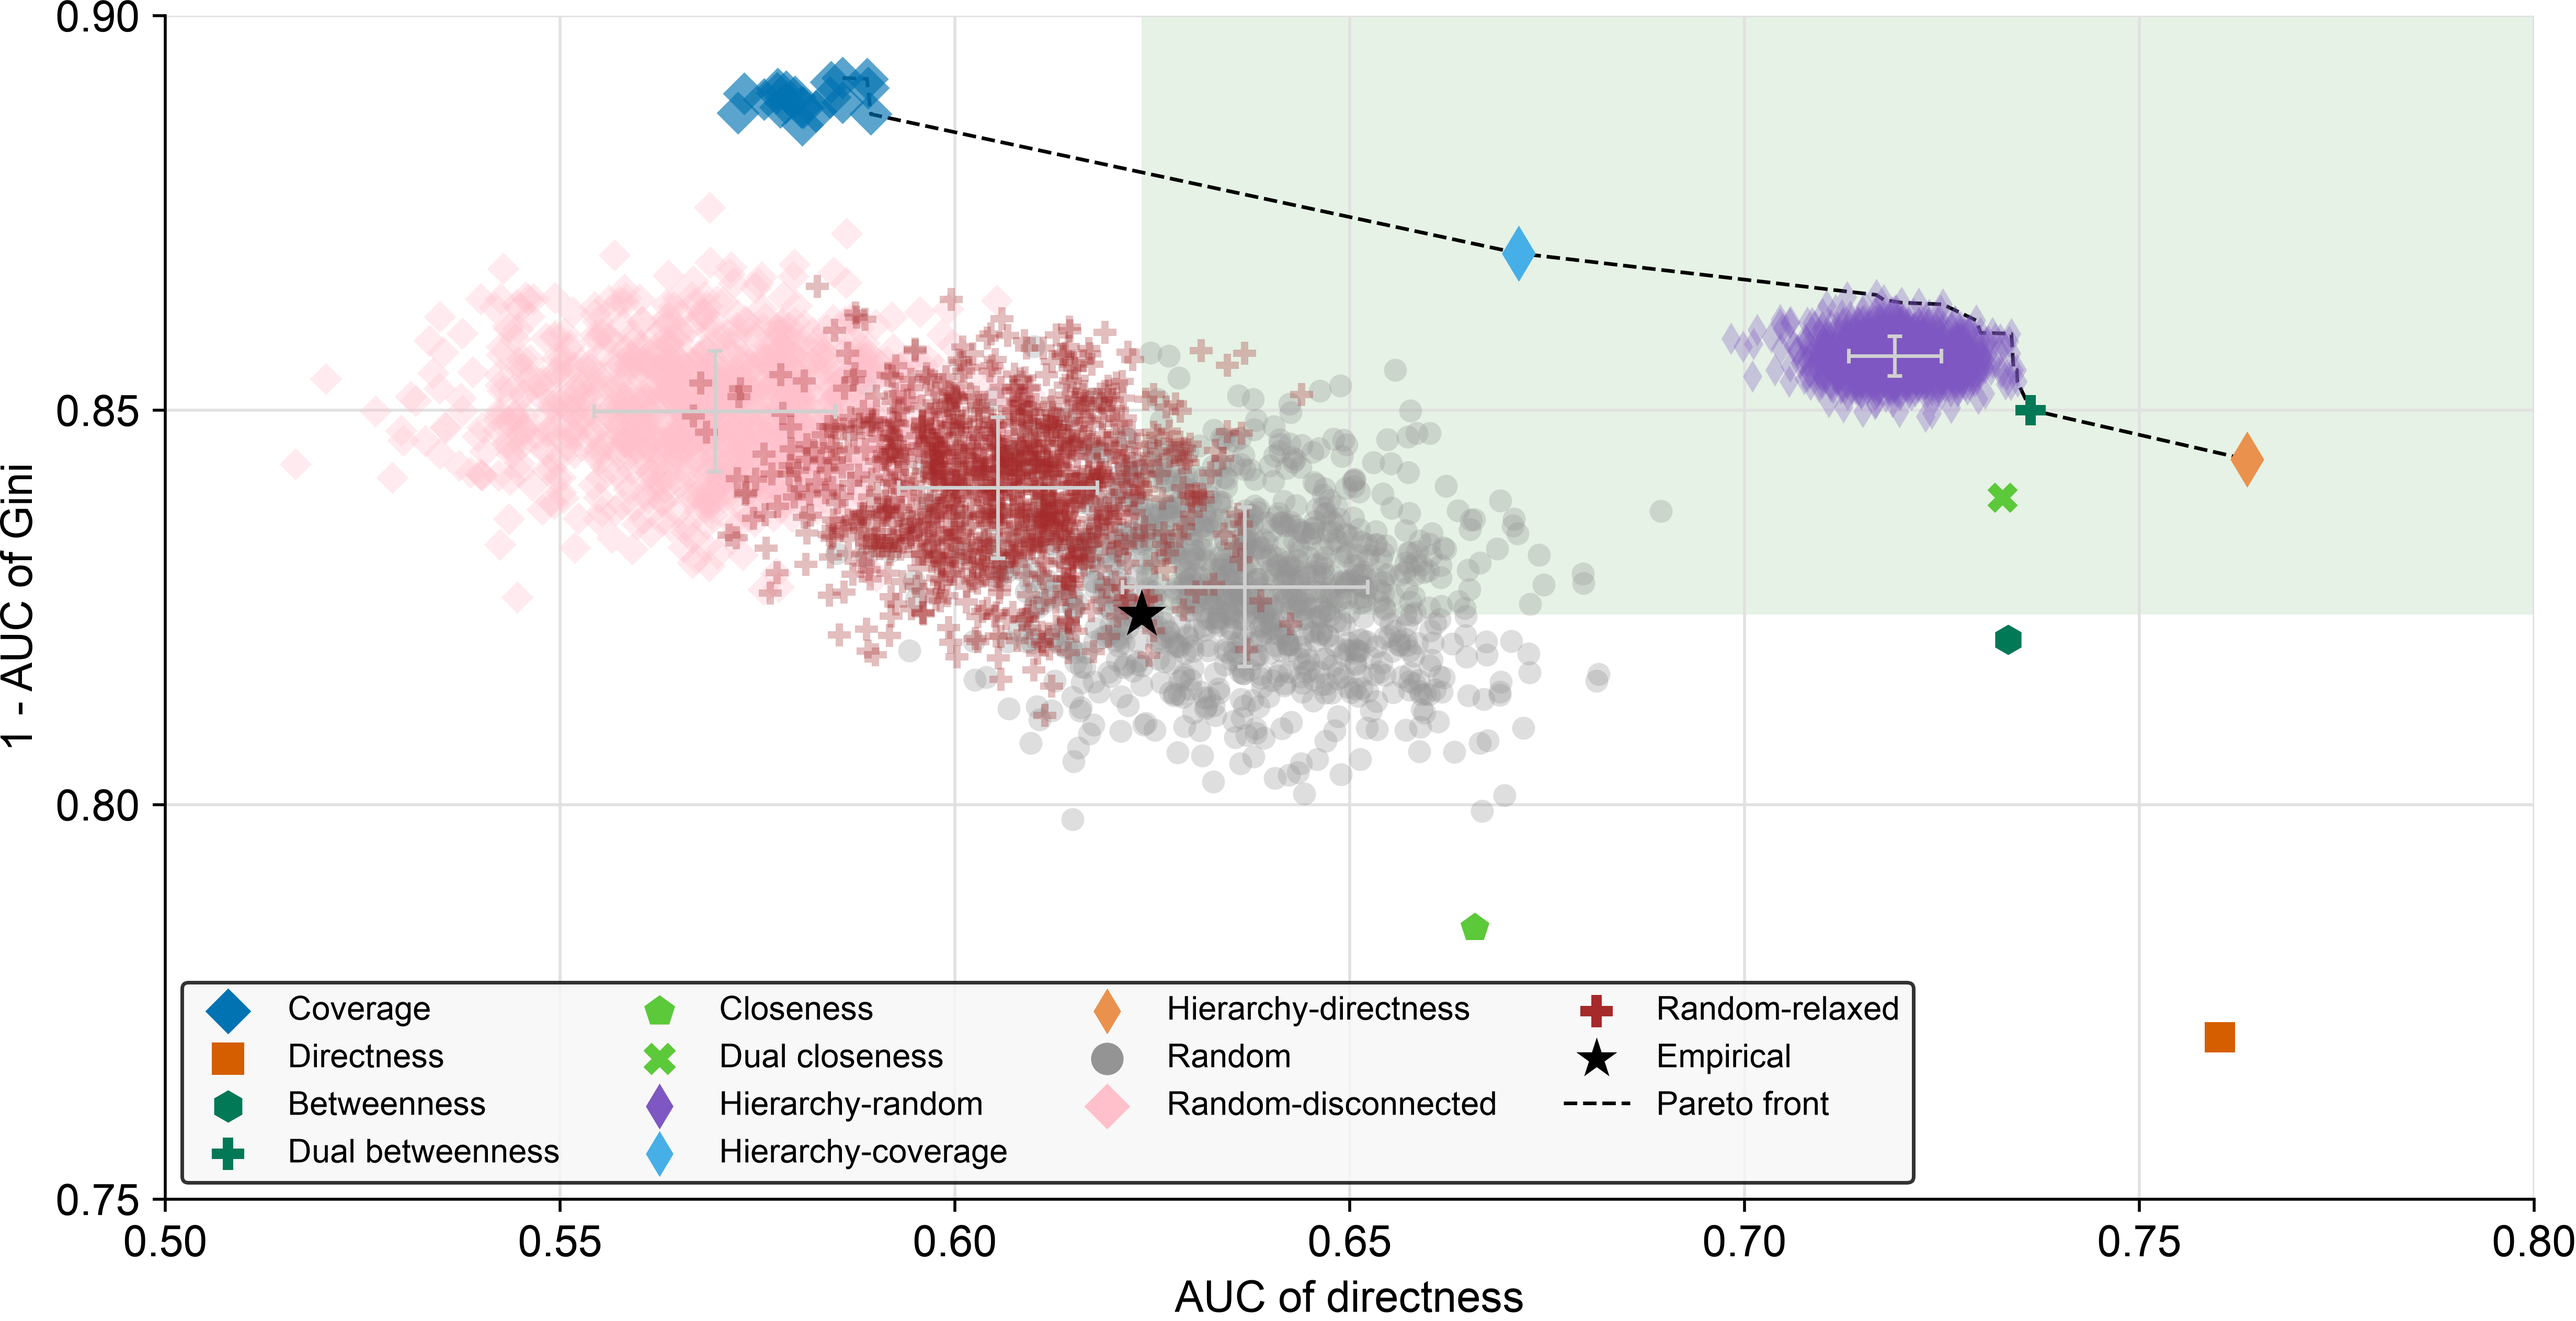
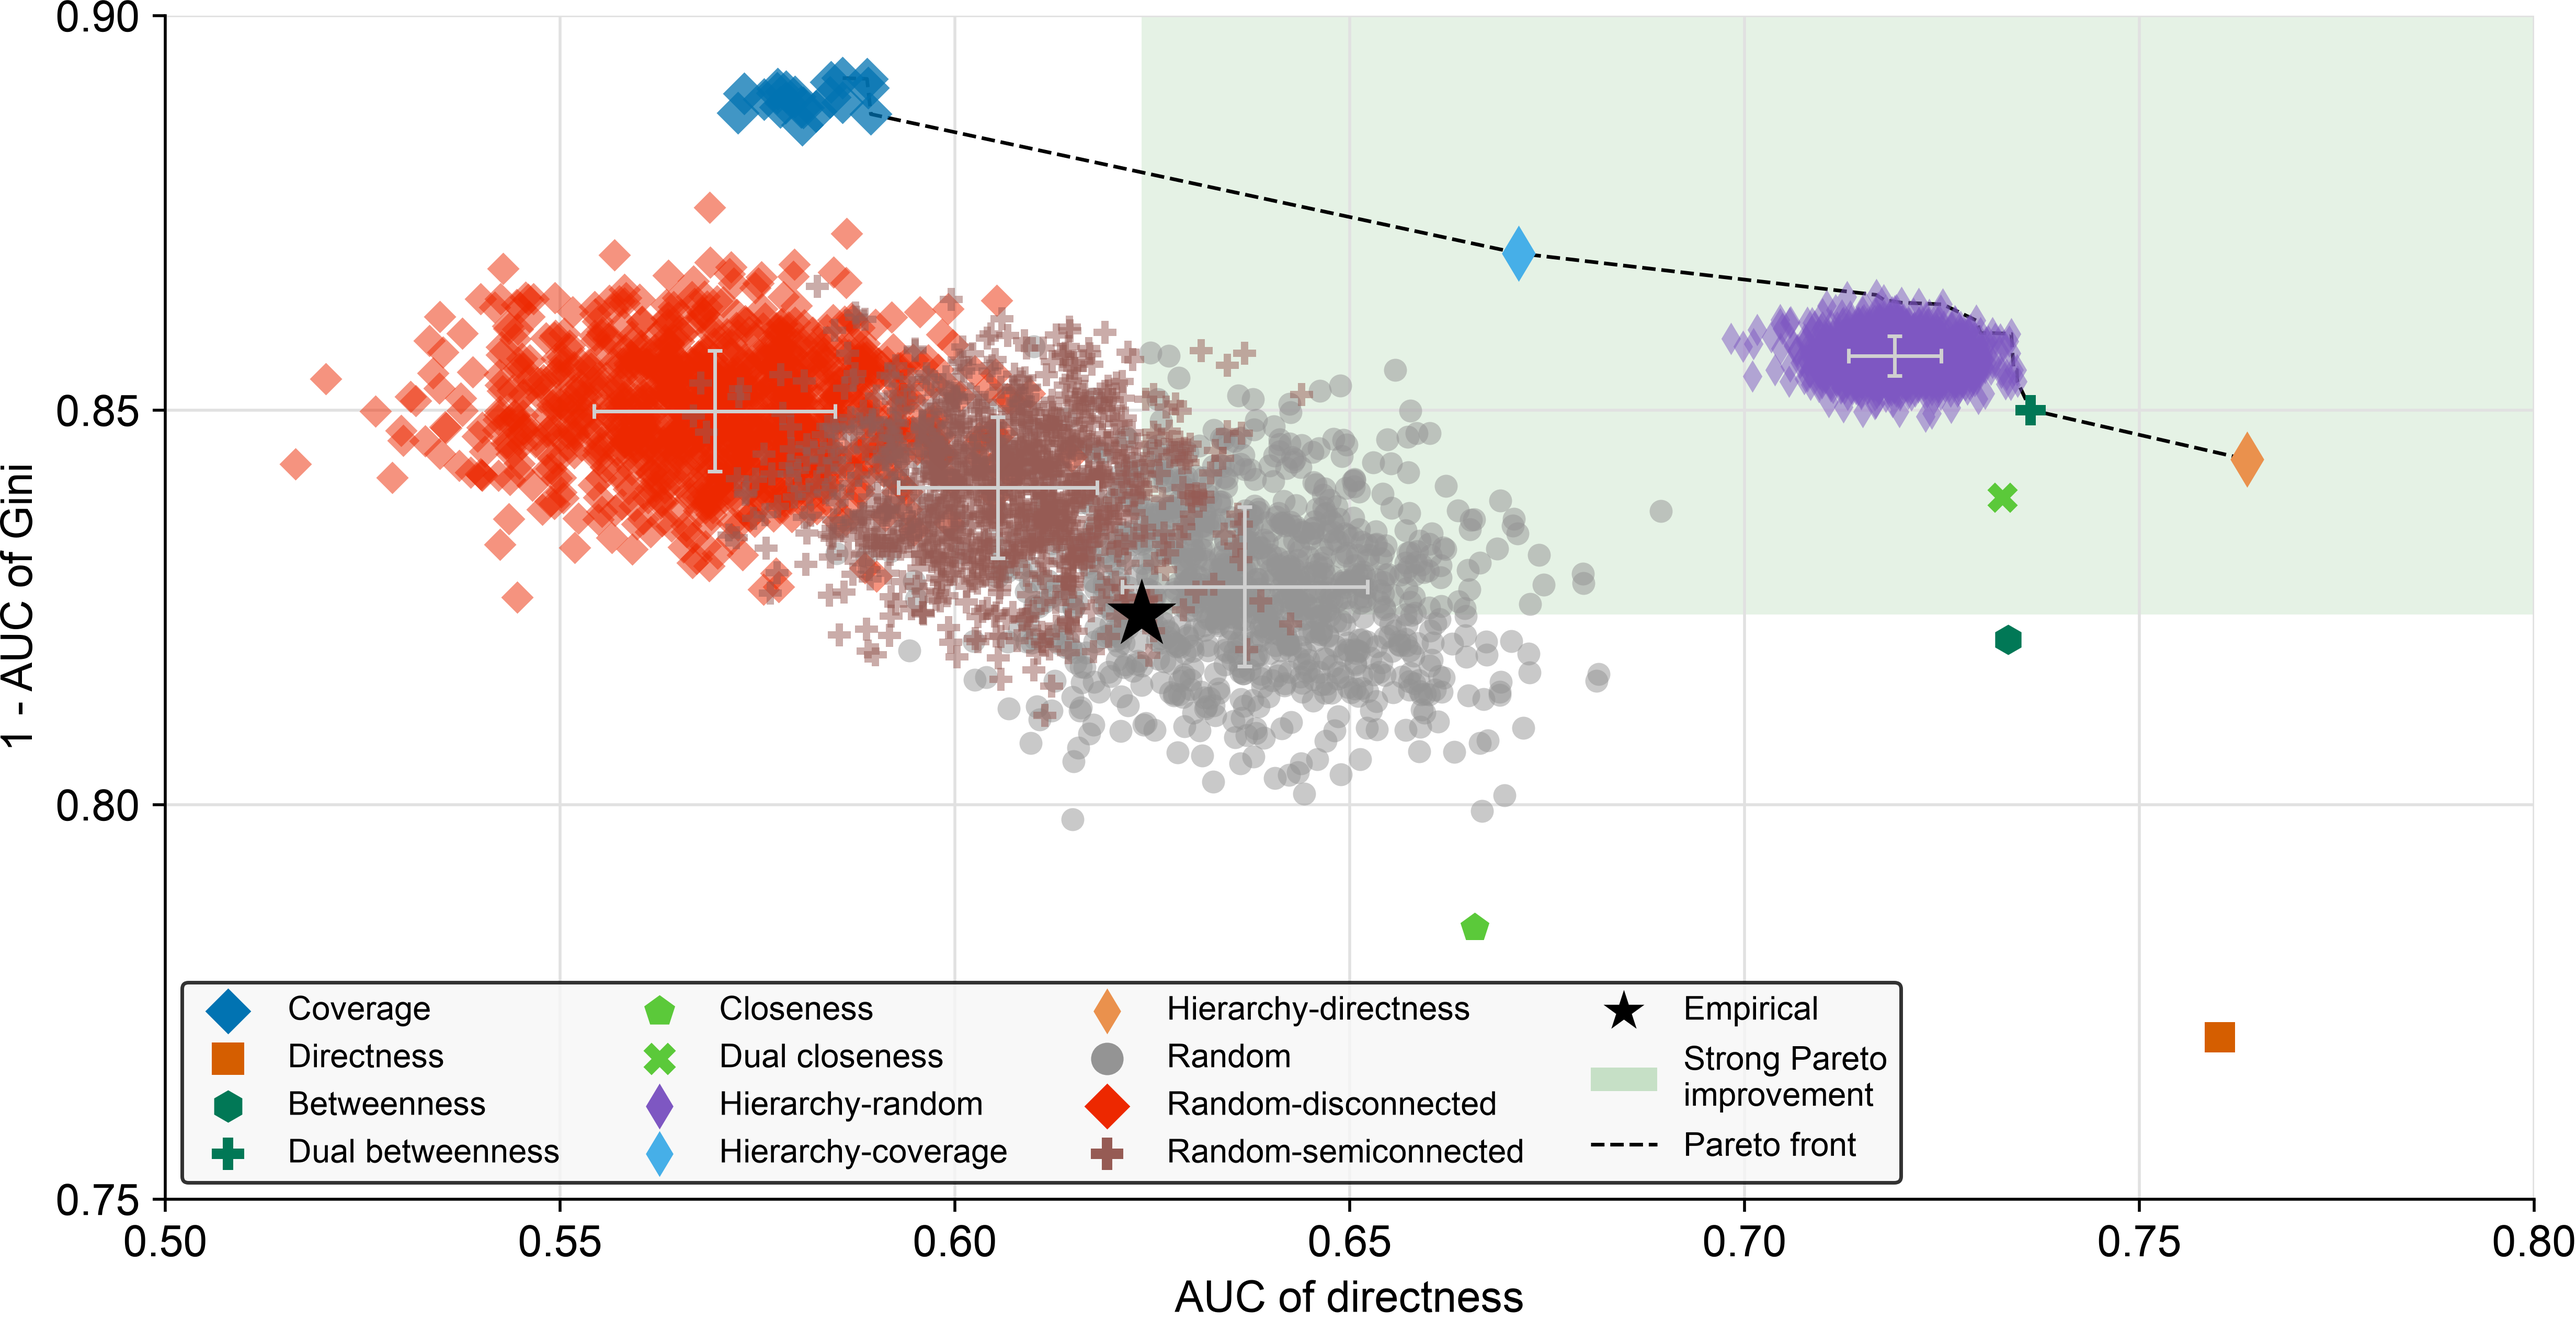
Rename, small fix supplementary

diff --git a/scripts/R_plot_AUC_2021_gini_supplementary.py b/scripts/R_plot_AUC_2021_gini_supplementary.py
@@ -37,7 +37,7 @@ PARAMS_DICT = {
         "Hierarchy-directness",
         "Random",
         "Random-disconnected",
-        "Random-relaxed",
+        "Random-semiconnected",
         "Empirical",
     ],
     "color": [
@@ -51,13 +51,14 @@ PARAMS_DICT = {
         "#46afe8",
         "#ea914d",
         "#949494",
-        "pink",
-        "brown",
+        "#ED2800",
+        "#965B54",
         "black",
     ],
     "marker": ["D", "s", "h", "P", "p", "X", "d", "d", "d", "o", "D", "P", "*"],
-    "alpha": [0.65, 1, 1, 1, 1, 1, 0.3, 1, 1, 0.3, 0.3, 0.3, 1],
-    "s": [70, 70, 70, 70, 70, 70, 40, 120, 120, 40, 40, 40, 200],
+    "alpha": [0.75, 1, 1, 1, 1, 1, 0.5, 1, 1, 0.5, 0.5, 0.5, 1],
+    "zorder": [6, 6, 6, 6, 6, 6, 5, 6, 6, 2, 3, 4, 7],
+    "s": [70, 70, 70, 70, 70, 70, 40, 120, 120, 40, 40, 40, 400],
     "figsize": [11.69, 8.27],
     "errorbar_random": {"elinewidth": 1, "color": "#D0D0D0", "markersize": 6},
     "errorbar_hierarchy": {"elinewidth": 1, "color": "#D0D0D0"},
@@ -98,7 +99,7 @@ def main():
         )
         savename_plot = (
             FOLDERPLOT_SUPP
-            + f"AUC_gini_2021_2026_bs_{BUFFER_SIZE}_{'_'.join(auc_label.split(' '))}.png"
+            + f"AUC_gini_2021_bs_{BUFFER_SIZE}_{'_'.join(auc_label.split(' '))}.png"
         )
         folder_data = FOLDEROOT + "2021/"
         savename = folder_data + f"/auc_table_growth_bs_{BUFFER_SIZE}_alt"
@@ -108,22 +109,10 @@ def main():
         df_growth = df_growth.drop([2027])
         for ids, met in enumerate(PARAMS_DICT["order"]):
             mask_met = df_growth["Metric optimized"] == met
-            if met in [
-                "random",
-                "random_disconnected",
-                "random_relaxed",
-                "road_hierarchy",
-            ]:
-                zorder = 2
-            elif met == "real":
-                zorder = 4
-            else:
-                zorder = 3
             ax.scatter(
                 df_growth[mask_met][auc],
                 df_growth[mask_met]["AUC of Gini"],
                 linewidths=0,
-                zorder=zorder,
                 **{
                     key: val[ids]
                     for key, val in PARAMS_DICT.items()
@@ -151,7 +140,7 @@ def main():
                     fmt="None",
                     capsize=2,
                     **{key: val for key, val in PARAMS_DICT["errorbar_random"].items()},
-                    zorder=3,
+                    zorder=6,
                 )
             elif met == "road_hierarchy":
                 xx_mean = df_growth[mask_met][auc].mean()
@@ -169,7 +158,7 @@ def main():
                         key: val
                         for key, val in PARAMS_DICT["errorbar_hierarchy"].items()
                     },
-                    zorder=3,
+                    zorder=6,
                 )
             elif met == "real_random":
                 # Add Strong Pareto Improvment patch
@@ -184,6 +173,7 @@ def main():
                     color="green",
                     alpha=0.1,
                     zorder=0,
+                    label="Strong Pareto\nimprovement",
                 )
                 ax.add_patch(rect)
         ax.set_xlabel(auc_label)
@@ -225,9 +215,10 @@ def main():
         )
         for handle in lgnd.legend_handles:
             handle._alpha = 1
-        for handle in lgnd.legend_handles[:-2]:
+        lgnd.legend_handles[-2]._alpha = 0.2
+        for handle in lgnd.legend_handles[:-3]:
             handle._sizes = [80]
-        lgnd.legend_handles[-2]._sizes = [140]
+        lgnd.legend_handles[-3]._sizes = [140]
         fig.savefig(savename_plot, bbox_inches="tight", pad_inches=0)
 
 

diff --git a/scripts/N_plot_bikenet_small_multiples_scratch_main.py b/scripts/N_plot_bikenet_small_multiples_scratch_main.py
@@ -104,6 +104,7 @@ def main():
                     capstyle="round",
                     joinstyle="round",
                 )
+                ax.set_xlabel("")
             else:
                 H = G.edge_subgraph(order_growth[: idx_stage_bef + 2] + init_edge)
                 temp_gdf_edges = mp.nx_to_gdf(H, points=False, lines=True)
@@ -125,6 +126,8 @@ def main():
                     capstyle="round",
                     joinstyle="round",
                 )
+                ax.set_xlabel("")
+                ax.set_ylabel("")
             idx_stage_bef = idx_stage
             ax.set_xlim([bb[0], bb[2]])
             ax.set_ylim([bb[1], bb[3]])
@@ -153,6 +156,8 @@ def main():
             capstyle="round",
             joinstyle="round",
         )
+        ax.set_xlabel("")
+        ax.set_ylabel("")
     axs[-1][0].set_ylabel("Empirical", labelpad=LABEL_PAD, multialignment="center")
     gdf_edges[gdf_edges["built_in"] == "2021-01-01"].plot(
         ax=axs[-1][0], color="white", capstyle="round", joinstyle="round"
@@ -182,6 +187,7 @@ def main():
         "Missing 100 km",
         fontsize=PARAMS_DICT["rcparams"]["font.size"] * 1.3,
         fontweight=700,
+        y=1.1,
     )
     ax = axs[-1][3]
     ax.set_xlim([bb[0], bb[2]])
@@ -196,6 +202,8 @@ def main():
         capstyle="round",
         joinstyle="round",
     )
+    ax.set_xlabel("")
+    ax.set_ylabel("")
     for i in range(len(stages)):
         ax = axs[-1][i]
         ax.set_xlim([bb[0], bb[2]])
@@ -203,11 +211,17 @@ def main():
         ax.spines[:].set_visible(False)
         ax.set_xticks([])
         ax.set_yticks([])
+        if i > 0:
+            ax.set_xlabel("")
+            ax.set_ylabel("")
+        else:
+            ax.set_xlabel("")
     for idx_sta, stage in enumerate(stages):
         axs[0][idx_sta].set_title(
             f"{stage} km",
             fontsize=PARAMS_DICT["rcparams"]["font.size"] * 1.3,
             fontweight=700,
+            y=1.1,
         )
         if stage == 124:
             axs[-1][idx_sta].set_xlabel(

diff --git a/scripts/Ka_plot_lineplot_covdir_merged_2021_main.py b/scripts/Ka_plot_lineplot_covdir_merged_2021_main.py
@@ -57,7 +57,7 @@ PARAMS_DICT = {
         "black",
         "black",
     ],
-    "figsize": [11.69 * 2, 8.27],
+    "figsize": [11.69 * 2, 11.69],
     "rcparams": {
         "font.size": 30,
         "font.family": "sans-serif",
@@ -162,7 +162,7 @@ def main():
                 )
                 if idx == 1:
                     for time, i, offset in zip(
-                        ("2021", "2026"), (0, -2), ((0, -40), (-10, 40))
+                        ("2021", "2026"), (0, -2), ((0, -40), (-5, 30))
                     ):
                         ax.annotate(
                             time,
@@ -209,8 +209,9 @@ def main():
             "Built length ($km$)", fontsize=PARAMS_DICT["rcparams"]["font.size"]
         )
         ax.set_axisbelow(True)
+    axs[0].set_yticks(range(72, 92, 4))
     fig.tight_layout()
-    axs[1].legend(fontsize=PARAMS_DICT["rcparams"]["font.size"] * 0.66)
+    axs[1].legend(fontsize=PARAMS_DICT["rcparams"]["font.size"] * 0.8)
     fig.savefig(
         FOLDERPLOT_MAIN + f"/2021_lineplot_merged_bs_{BUFFER_SIZE}.png", pad_inches=0.05
     )
